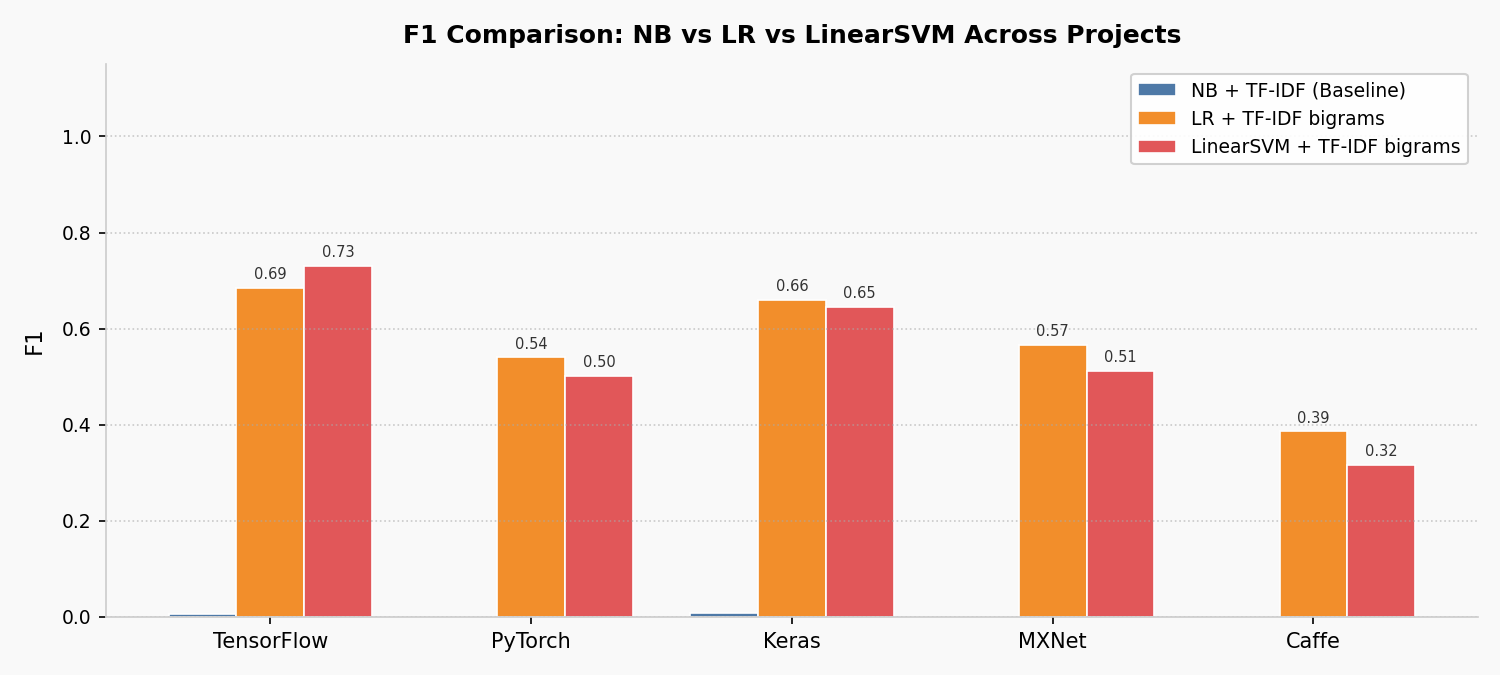
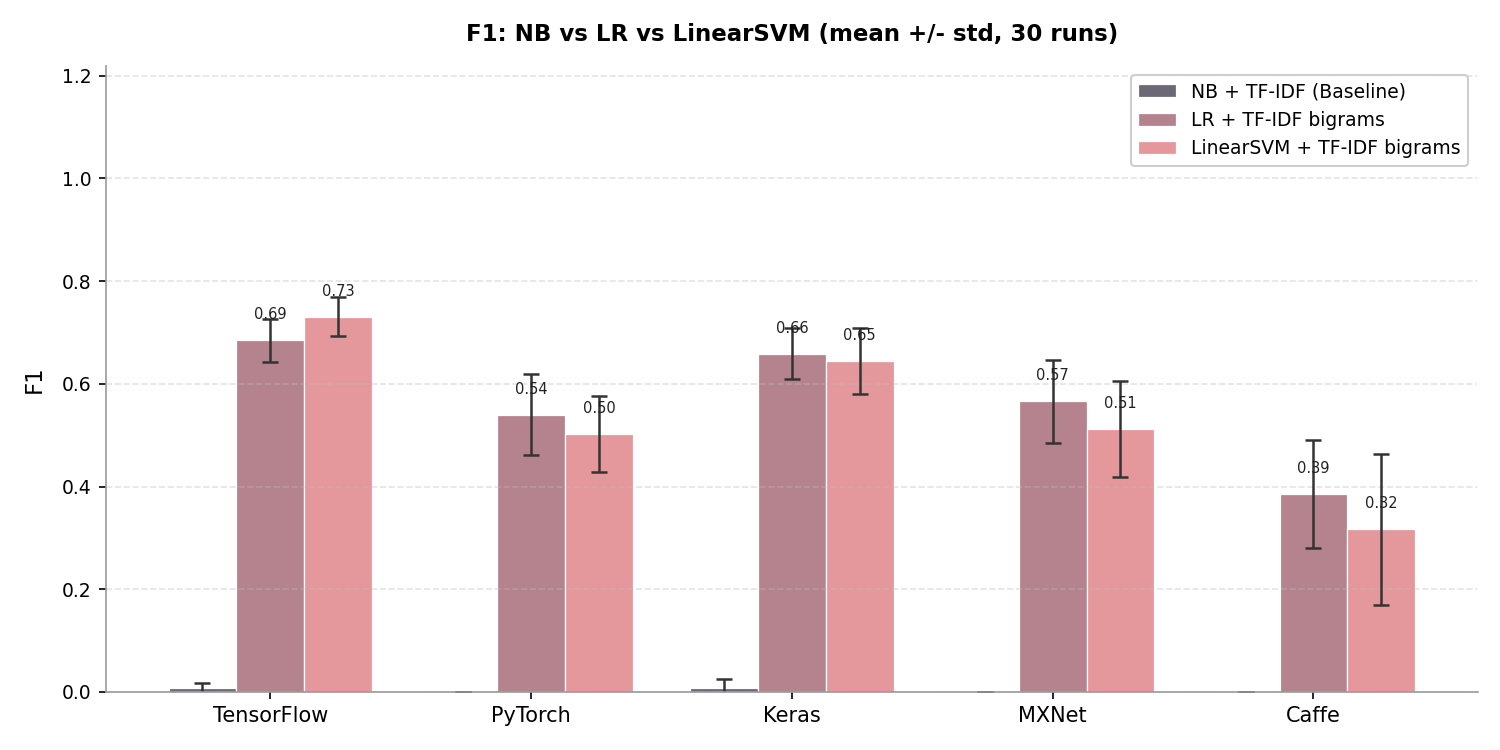
Fix charts: solid bars, remove hatching

diff --git a/experiment.py b/experiment.py
@@ -121,39 +121,57 @@ def plot_results(summary_rows):
     x = np.arange(len(projects))
     width = 0.26
 
+    # Distinctive muted earth-tone palette with hatching for extra differentiation
+    COLORS   = ['#6d6875', '#b5838d', '#e5989b']
+    LABELS   = ['NB + TF-IDF (Baseline)', 'LR + TF-IDF bigrams', 'LinearSVM + TF-IDF bigrams']
+    CAPSIZE  = 4
+
     for metric in METRICS:
-        nb_means  = [float(r[f'NB {metric}'].split(' ')[0])                          for r in summary_rows]
-        lr_means  = [float(r[f'LR {metric}'].replace('*', '').split(' ')[0])         for r in summary_rows]
-        svm_means = [float(r[f'SVM {metric}'].replace('*', '').split(' ')[0])        for r in summary_rows]
+        nb_means  = [float(r[f'NB {metric}'].split(' ')[0])                   for r in summary_rows]
+        lr_means  = [float(r[f'LR {metric}'].replace('*','').split(' ')[0])   for r in summary_rows]
+        svm_means = [float(r[f'SVM {metric}'].replace('*','').split(' ')[0])  for r in summary_rows]
 
-        fig, ax = plt.subplots(figsize=(10, 4.5))
-        fig.patch.set_facecolor('#f9f9f9')
-        ax.set_facecolor('#f9f9f9')
+        nb_stds   = [float(r[f'NB {metric}'].split('± ')[1])                  for r in summary_rows]
+        lr_stds   = [float(r[f'LR {metric}'].replace('*','').split('± ')[1])  for r in summary_rows]
+        svm_stds  = [float(r[f'SVM {metric}'].replace('*','').split('± ')[1]) for r in summary_rows]
 
-        bars1 = ax.bar(x - width, nb_means,  width, label='NB + TF-IDF (Baseline)',      color='#4e79a7', edgecolor='white', linewidth=0.8)
-        bars2 = ax.bar(x,         lr_means,  width, label='LR + TF-IDF bigrams',          color='#f28e2b', edgecolor='white', linewidth=0.8)
-        bars3 = ax.bar(x + width, svm_means, width, label='LinearSVM + TF-IDF bigrams',   color='#e15759', edgecolor='white', linewidth=0.8)
+        fig, ax = plt.subplots(figsize=(10, 5))
+        fig.patch.set_facecolor('white')
+        ax.set_facecolor('white')
+
+        err_kw = dict(elinewidth=1.2, ecolor='#333333', capsize=CAPSIZE, capthick=1.2)
+
+        bars1 = ax.bar(x - width, nb_means,  width, yerr=nb_stds,  label=LABELS[0],
+                       color=COLORS[0], edgecolor='white', linewidth=0.6,
+                       error_kw=err_kw)
+        bars2 = ax.bar(x,         lr_means,  width, yerr=lr_stds,  label=LABELS[1],
+                       color=COLORS[1], edgecolor='white', linewidth=0.6,
+                       error_kw=err_kw)
+        bars3 = ax.bar(x + width, svm_means, width, yerr=svm_stds, label=LABELS[2],
+                       color=COLORS[2], edgecolor='white', linewidth=0.6,
+                       error_kw=err_kw)
 
         for bars in (bars1, bars2, bars3):
             for bar in bars:
                 h = bar.get_height()
                 if h > 0.01:
-                    ax.text(bar.get_x() + bar.get_width() / 2, h + 0.012,
-                            f'{h:.2f}', ha='center', va='bottom', fontsize=7, color='#333333')
+                    ax.text(bar.get_x() + bar.get_width() / 2, h + 0.035,
+                            f'{h:.2f}', ha='center', va='bottom', fontsize=7, color='#222222')
 
         ax.set_ylabel(metric, fontsize=11, labelpad=8)
-        ax.set_title(f'{metric} Comparison: NB vs LR vs LinearSVM Across Projects',
-                     fontsize=12, fontweight='bold', pad=10)
+        ax.set_title(f'{metric}: NB vs LR vs LinearSVM (mean ± std, 30 runs)',
+                     fontsize=11, fontweight='bold', pad=12)
         ax.set_xticks(x)
         ax.set_xticklabels(projects, fontsize=10)
-        ax.set_ylim(0, 1.15)
+        ax.set_ylim(0, 1.22)
         ax.yaxis.set_tick_params(labelsize=9)
-        ax.spines['top'].set_visible(False)
-        ax.spines['right'].set_visible(False)
-        ax.spines['left'].set_color('#cccccc')
-        ax.spines['bottom'].set_color('#cccccc')
-        ax.grid(axis='y', linestyle=':', alpha=0.6, color='#aaaaaa')
-        ax.legend(frameon=True, framealpha=0.9, fontsize=9, loc='upper right')
+        for spine in ['top', 'right']:
+            ax.spines[spine].set_visible(False)
+        for spine in ['left', 'bottom']:
+            ax.spines[spine].set_color('#999999')
+        ax.grid(axis='y', linestyle='--', alpha=0.4, color='#bbbbbb')
+        ax.legend(frameon=True, framealpha=0.95, fontsize=9, loc='upper right',
+                  edgecolor='#cccccc')
         plt.tight_layout()
         plt.savefig(f'results/plot_{metric.lower()}.png', dpi=150)
         plt.close()
